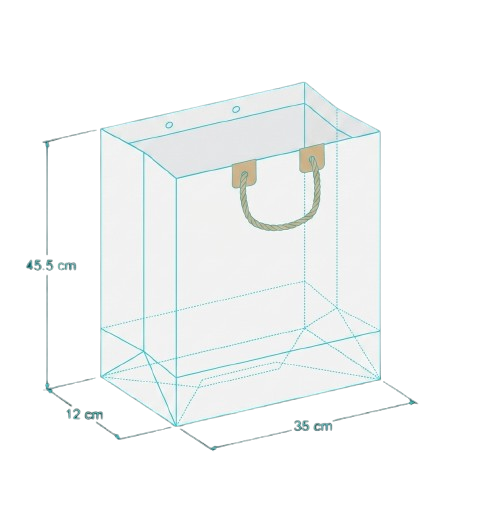
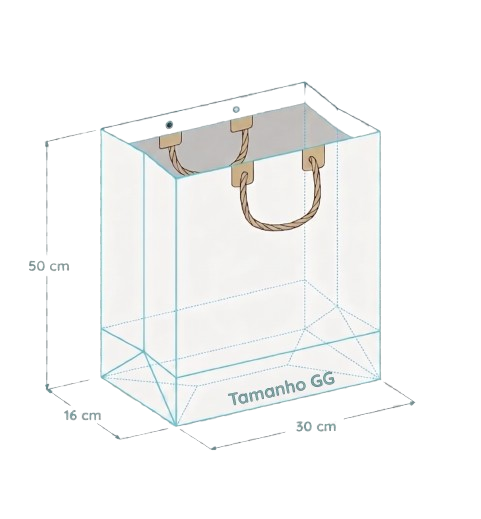
Ajustando imagens e seções de tamanhos de sacolas

diff --git a/pages/desktop.html b/pages/desktop.html
@@ -219,7 +219,7 @@
                   data-size="p"
                 >
                   <span class="font-label text-xs md:text-sm uppercase tracking-widest text-on-surface-variant">Tamanho P</span>
-                  <span class="font-bold text-base md:text-lg text-primary">18 x 23,5 x 8cm</span>
+                  <span class="font-bold text-base md:text-lg text-primary">L 18 x A 25 x P 8 cm</span>
                   <span class="text-[11px] md:text-xs text-on-surface-variant mt-2 border-t border-outline-variant/30 pt-2"
                     >Ideal para joias. Suporta até 2kg.</span
                   >
@@ -229,7 +229,7 @@
                   data-size="m"
                 >
                   <span class="font-label text-xs md:text-sm uppercase tracking-widest text-surface-tint">Tamanho M</span>
-                  <span class="font-bold text-base md:text-lg text-primary">23 x 32 x 8cm</span>
+                  <span class="font-bold text-base md:text-lg text-primary">L 20 x A 30 x P 10 cm</span>
                   <span class="text-[11px] md:text-xs text-on-surface-variant mt-2 border-t border-surface-tint/30 pt-2"
                     >Padrão vestuário. Suporta até 4kg.</span
                   >
@@ -239,7 +239,7 @@
                   data-size="g"
                 >
                   <span class="font-label text-xs md:text-sm uppercase tracking-widest text-on-surface-variant">Tamanho G</span>
-                  <span class="font-bold text-base md:text-lg text-primary">35 x 24 x 14 cm</span>
+                  <span class="font-bold text-base md:text-lg text-primary">L 35 x A 24 x P 14 cm</span>
                   <span class="text-[11px] md:text-xs text-on-surface-variant mt-2 border-t border-outline-variant/30 pt-2"
                     >Caixas de sapato. Suporta até 5kg.</span
                   >
@@ -249,7 +249,7 @@
                   data-size="gg"
                 >
                   <span class="font-label text-xs md:text-sm uppercase tracking-widest text-on-surface-variant">Tamanho GG</span>
-                  <span class="font-bold text-base md:text-lg text-primary">45,5 x 35 x 12 cm</span>
+                  <span class="font-bold text-base md:text-lg text-primary">L 50 x A 30 x P 16 cm</span>
                   <span class="text-[11px] md:text-xs text-on-surface-variant mt-2 border-t border-outline-variant/30 pt-2"
                     >Grandes volumes. Suporta até 7kg.</span
                   >
@@ -352,7 +352,7 @@
                   <span class="font-headline font-bold text-primary text-sm">4x0 (CMYK)</span>
                 </div>
               </div>
-              <div class="mt-4">
+              <!-- <div class="mt-4">
                 <label class="font-label text-xs text-on-surface-variant uppercase tracking-widest hidden"
                   >Cor Especial (Pantone) Opcional</label
                 >
@@ -362,7 +362,7 @@
                   class="w-full bg-surface-container-highest text-on-surface border-none p-3 rounded-lg mt-1 focus:border-b-primary-container focus:ring-0 hidden"
                   placeholder="Ex: Pantone 213 C"
                 />
-              </div>
+              </div> -->
             </div>
 
             <div class="config-section bg-surface-container-low p-6 md:p-8 rounded-xl" id="section-05-colors">
@@ -586,7 +586,7 @@
               <ul class="space-y-3 md:space-y-4 mb-6 md:mb-8">
                 <li class="flex justify-between items-center text-xs md:text-sm">
                   <span class="text-on-surface-variant uppercase tracking-wider">Tamanho</span>
-                  <span class="font-bold text-primary" id="summary-size">M (23 x 32 x 8cm)</span>
+                  <span class="font-bold text-primary" id="summary-size">M (20 x 30 x 10cm)</span>
                 </li>
                 <li class="flex justify-between items-center text-xs md:text-sm">
                   <span class="text-on-surface-variant uppercase tracking-wider">Papel</span>
@@ -712,10 +712,10 @@
       }
 
       const sizeMap = {
-        p: { name: 'Tamanho P', dimensions: '18x23,5x8cm' },
-        m: { name: 'Tamanho M', dimensions: '23x32x8cm' },
+        p: { name: 'Tamanho P', dimensions: '18x25x8cm' },
+        m: { name: 'Tamanho M', dimensions: '20x30x10cm' },
         g: { name: 'Tamanho G', dimensions: '35x24x14cm' },
-        gg: { name: 'Tamanho GG', dimensions: '45,5x35x12cm' }
+        gg: { name: 'Tamanho GG', dimensions: '50x30x16cm' }
       }
 
       const paperMap = {
@@ -1081,7 +1081,7 @@
       })
 
       document.getElementById('whatsapp-btn')?.addEventListener('click', function () {
-        const phoneNumber = '5511917112529'
+        const phoneNumber = '5511982987512'
         const message = encodeURIComponent('Gostaria de entrar em contato para tirar algumas dúvidas.')
         window.open(`https://wa.me/${phoneNumber}?text=${message}`, '_blank')
       })

diff --git a/pages/mobile.html b/pages/mobile.html
@@ -255,28 +255,28 @@
               data-size="p"
             >
               <span class="font-headline text-2xl font-black text-primary">P</span>
-              <span class="font-label text-on-surface-variant text-[11px] tracking-wider">18x23,5x8cm</span>
+              <span class="font-label text-on-surface-variant text-[11px] tracking-wider">L 18 x A 25 x P 8 cm</span>
             </div>
             <div
               class="option-card bg-surface-container-highest p-4 rounded-lg flex flex-col items-center justify-center gap-1 transition-all text-left active"
               data-size="m"
             >
               <span class="font-headline text-2xl font-black text-primary">M</span>
-              <span class="font-label text-on-surface-variant text-[11px] tracking-wider">23x32x8cm</span>
+              <span class="font-label text-on-surface-variant text-[11px] tracking-wider">L 20 x A 30 x P 10 cm</span>
             </div>
             <div
               class="option-card bg-surface-container-highest p-4 rounded-lg flex flex-col items-center justify-center gap-1 transition-all text-left"
               data-size="g"
             >
               <span class="font-headline text-2xl font-black text-primary">G</span>
-              <span class="font-label text-on-surface-variant text-[11px] tracking-wider">35x24x14cm</span>
+              <span class="font-label text-on-surface-variant text-[11px] tracking-wider">L 35 x A 24 x P 14 cm</span>
             </div>
             <div
               class="option-card bg-surface-container-highest p-4 rounded-lg flex flex-col items-center justify-center gap-1 transition-all text-left"
               data-size="gg"
             >
               <span class="font-headline text-2xl font-black text-primary">GG</span>
-              <span class="font-label text-on-surface-variant text-[11px] tracking-wider">45,5x35x12cm</span>
+              <span class="font-label text-on-surface-variant text-[11px] tracking-wider">L 50 x A 30 x P 16 cm</span>
             </div>
           </div>
         </div>
@@ -377,7 +377,7 @@
             </div>
           </div>
           <div class="mt-2 flex flex-col gap-2">
-            <label class="font-label text-xs text-on-surface-variant uppercase tracking-widest">Cor Especial (Pantone) Opcional</label>
+            <label class="font-label text-xs text-on-surface-variant uppercase tracking-widest"></label>
             <input
               type="text"
               id="pantone-input"
@@ -648,10 +648,10 @@
       }
 
       const sizeMap = {
-        p: { name: 'Tamanho P', dimensions: '18x23,5x8cm' },
-        m: { name: 'Tamanho M', dimensions: '23x32x8cm' },
+        p: { name: 'Tamanho P', dimensions: '18x25x8cm' },
+        m: { name: 'Tamanho M', dimensions: '20x30x10cm' },
         g: { name: 'Tamanho G', dimensions: '35x24x14cm' },
-        gg: { name: 'Tamanho GG', dimensions: '45,5x35x12cm' }
+        gg: { name: 'Tamanho GG', dimensions: '50x30x16cm' }
       }
 
       const paperMap = {
@@ -1018,7 +1018,7 @@
       })
 
       document.getElementById('whatsapp-btn-mobile')?.addEventListener('click', function () {
-        const phoneNumber = '5511917112529'
+        const phoneNumber = '5511982987512'
         const message = encodeURIComponent('Gostaria de entrar em contato para tirar algumas dúvidas.')
         window.open(`https://wa.me/${phoneNumber}?text=${message}`, '_blank')
       })

diff --git a/pages/galeria.html b/pages/galeria.html
@@ -206,7 +206,7 @@
             <img src="../assets/images/bag-blueprint-p.png" alt="Sacola Tamanho P" class="w-full h-auto max-h-48 object-contain" />
           </div>
           <h3 class="text-xl font-bold text-primary">Tamanho P</h3>
-          <p class="text-primary-container text-sm font-mono mb-3">18cm x 23,5cm x 8cm</p>
+          <p class="text-primary-container text-sm font-mono mb-3">18cm x 25cm x 8cm</p>
           <div class="flex flex-wrap gap-2 justify-center mt-3">
             <span class="material-badge">Ideal para joias</span>
             <span class="material-badge">Até 2kg</span>
@@ -245,7 +245,7 @@
             <img src="../assets/images/bag-blueprint-gg.png" alt="Sacola Tamanho GG" class="w-full h-auto max-h-48 object-contain" />
           </div>
           <h3 class="text-xl font-bold text-primary">Tamanho GG</h3>
-          <p class="text-primary-container text-sm font-mono mb-3">45,5cm x 35cm x 12cm</p>
+          <p class="text-primary-container text-sm font-mono mb-3">50cm x 30cm x 16cm</p>
           <div class="flex flex-wrap gap-2 justify-center mt-3">
             <span class="material-badge">Grandes volumes</span>
             <span class="material-badge">Até 7kg</span>
@@ -406,7 +406,7 @@
 
       // Botão WhatsApp
       document.getElementById('whatsapp-btn')?.addEventListener('click', function () {
-        const phoneNumber = '5511917112529'
+        const phoneNumber = '5511982987512'
         const message = encodeURIComponent('Gostaria de entrar em contato para tirar algumas dúvidas.')
         window.open(`https://wa.me/${phoneNumber}?text=${message}`, '_blank')
       })

diff --git a/js/configurator.js b/js/configurator.js
@@ -6,7 +6,7 @@ const ConfiguratorState = {
   size: {
     id: "m",
     name: "Tamanho M",
-    dimensions: "23 x 32 x 8cm",
+    dimensions: "20 x 30 x 10cm",
     details: "Padrão vestuário. Suporta até 4kg.",
   },
   paper: {
@@ -44,13 +44,13 @@ const Options = {
   sizes: {
     p: {
       name: "Tamanho P",
-      dimensions: "18 x 23,5 x 8cm",
+      dimensions: "18 x 25 x 8cm",
       details: "Ideal para joias e pequenos acessórios. Suporta até 2kg.",
       weight: "2kg",
     },
     m: {
       name: "Tamanho M",
-      dimensions: "23 x 32 x 8cm",
+      dimensions: "20 x 30 x 10cm",
       details: "Padrão vestuário. Suporta até 4kg.",
       weight: "4kg",
     },
@@ -62,7 +62,7 @@ const Options = {
     },
     gg: {
       name: "Tamanho GG",
-      dimensions: "45,5 x 35 x 12 cm",
+      dimensions: "50 x 30 x 16 cm",
       details: "Grandes volumes. Suporta até 7kg.",
       weight: "7kg",
     },

diff --git a/pages/sobre.html b/pages/sobre.html
@@ -263,7 +263,7 @@
 
       // Botão WhatsApp
       document.getElementById('whatsapp-btn')?.addEventListener('click', function () {
-        const phoneNumber = '5511917112529'
+        const phoneNumber = '5511982987512'
         const message = encodeURIComponent('Gostaria de entrar em contato para tirar algumas dúvidas.')
         window.open(`https://wa.me/${phoneNumber}?text=${message}`, '_blank')
       })

diff --git a/pages/review.html b/pages/review.html
@@ -792,7 +792,7 @@
         }
 
         // Número do WhatsApp da empresa (apenas números)
-        const whatsappNumber = '5511917112529'
+        const whatsappNumber = '5511982987512'
 
         // Montar a mensagem para o WhatsApp
         let message = `*INDUSTRIA GRÁFICA ALQUIMISTA*%0a%0a *NOVO ORÇAMENTO*%0a%0a`
